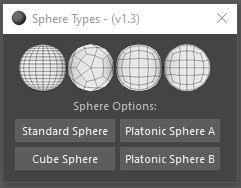
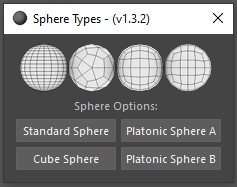
Minor updates to the main window margins

diff --git a/python-scripts/gt_create_sphere_types.py b/python-scripts/gt_create_sphere_types.py
@@ -45,7 +45,7 @@ import sys
 import os
 
 # Script Version
-script_version = "1.3.1"
+script_version = "1.3.2"
 
 #Python Version
 python_version = sys.version_info.major
